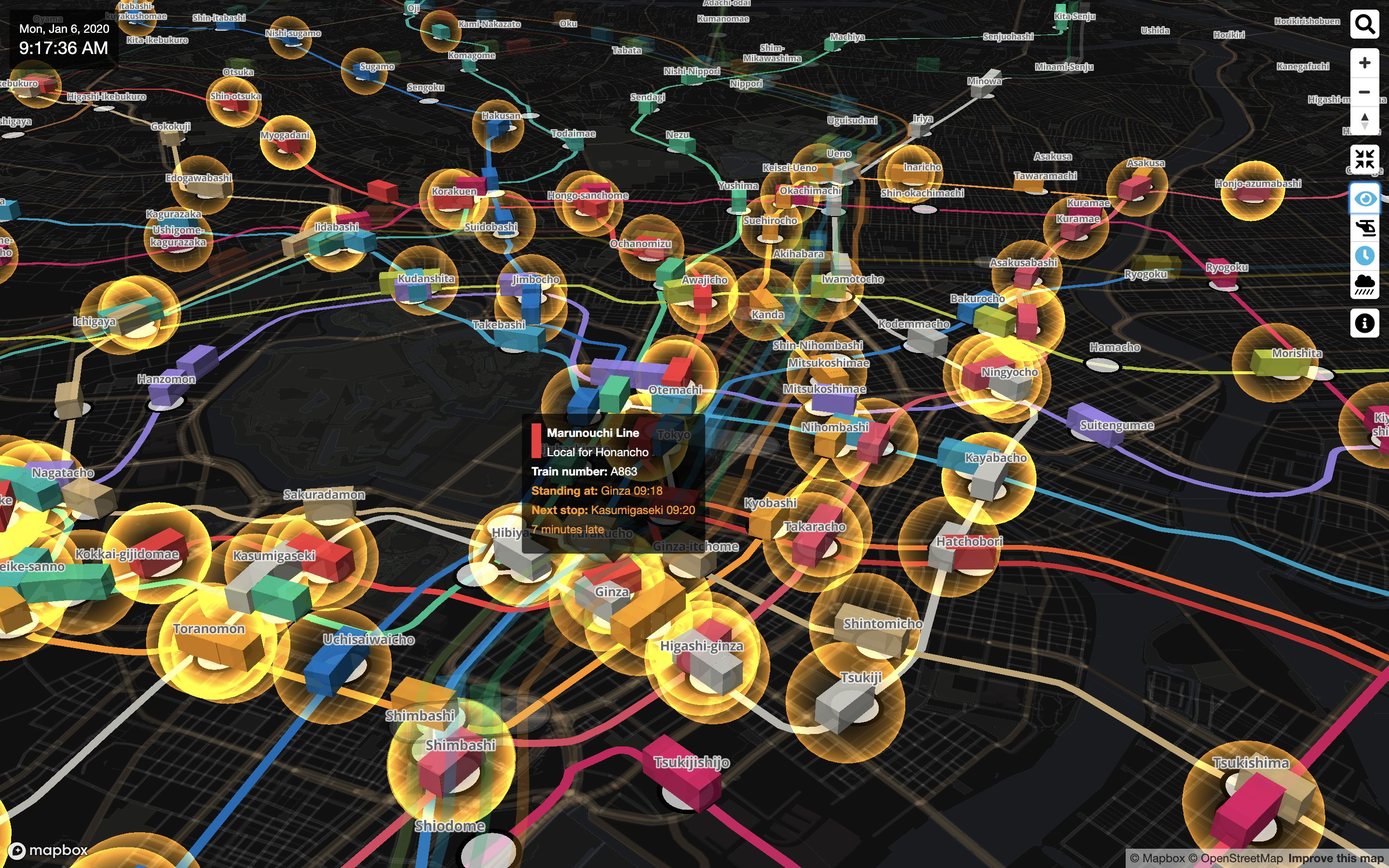
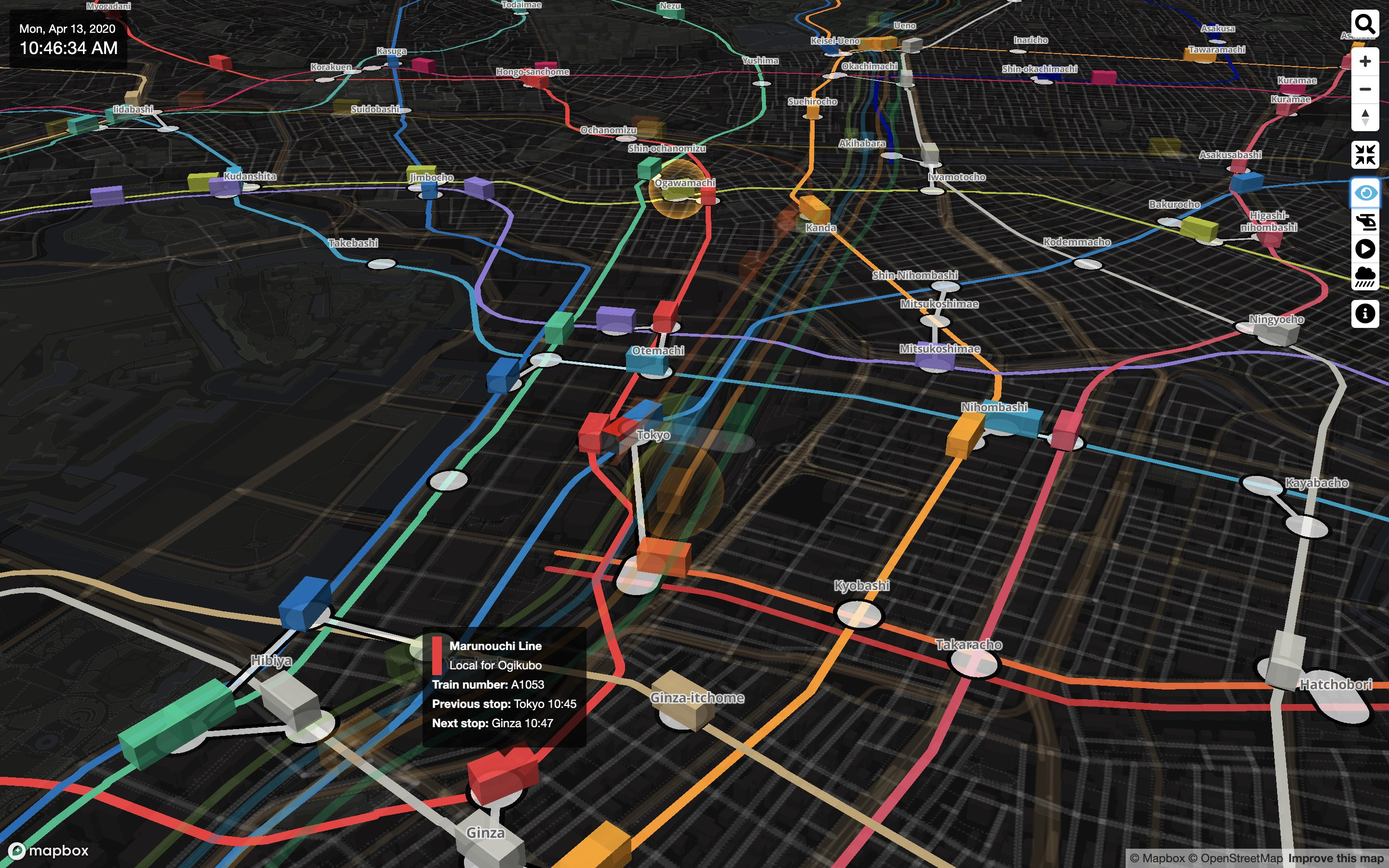
Update USER_GUIDE and screenshot images

diff --git a/USER_GUIDE-en.md b/USER_GUIDE-en.md
@@ -12,7 +12,7 @@ Users can freely move around on the 3D map and zoom in on the places they want t
 
 Mini Tokyo 3D is a web application that you can run in any web browser, regardless of device, such as PCs, smartphones, tablets, and set-top boxes. Please use the following URL to access.
 
-[https://nagix.github.io/mini-tokyo-3d/](https://nagix.github.io/mini-tokyo-3d/)
+[https://minitokyo3d.com](https://minitokyo3d.com)
 
 The features of Mini Tokyo 3D are as follows.
 
@@ -32,13 +32,13 @@ Mini Tokyo 3D is using the same line colors used in official route maps and guid
 
 <img src="images/performance.jpg" width="537">
 
-Over 1,100 trains run at the same time during the rush hour, but with the optimized data structure and processing logic, a very smooth operation animation is realized even on smartphones. Smooth animation of 60 frames per second is used everywhere, including viewpoint movement, switching between overground and underground views, and fading in and out of trains and airplanes.
+Over 1,200 trains run at the same time during the rush hour, but with the optimized data structure and processing logic, a very smooth operation animation is realized even on smartphones. Smooth animation of 60 frames per second is used everywhere, including viewpoint movement, switching between overground and underground views, and fading in and out of trains and airplanes.
 
 ### Support for 4 Languages
 
 <img src="images/multilanguage.jpg" width="219">
 
-In addition to Japanese, Mini Tokyo 3D supports English, Chinese and Korean, which are popular with tourists visiting Japan. Not only the user interface texts but also railway names, station names, train types, airport names and airline names are also multilingualized. For the user interface texts, Thai and Nepali are also supported.
+In addition to Japanese, Mini Tokyo 3D supports English, Chinese (Simplified and Traditional) and Korean, which are popular with tourists visiting Japan. Not only the user interface texts but also railway names, station names, train types, airport names and airline names are also multilingualized. For the user interface texts, Thai and Nepali are also supported.
 
 ### Train Operation and Display as Close as Possible to Reality
 
@@ -92,27 +92,29 @@ Click or tap the compass icon button and the bearing will be reset to true north
 
 ### Tracking Trains and Airplanes
 
-Clicking or tapping on a train or airplane will turn on [Tracking Mode](#tracking-mode) and the screen will automatically move following the movement of the train or airplane. There are two types of tracking modes, the “Helicopter Tracking Mode” and the “Rear Tracking Mode”, and you can enjoy the scenery along the railway in your favorite tracking mode. When the tracking mode is on, the map panning and rotating operations are disabled (you can zoom in/out and change the tilt). Clicking on a map with no trains or airplanes turns the tracking mode off.
+Clicking or tapping on a train or airplane will turn on [Tracking Mode](#tracking-mode) and the screen will automatically move following the movement of the train or airplane. There are two types of Tracking Modes, the “Helicopter Tracking Mode” and the “Rear Tracking Mode”, and you can enjoy the scenery along the railway in your favorite Tracking Mode. When Tracking Mode is on, the map panning and rotating operations are disabled (you can zoom in/out and change the tilt). Clicking on a map with no trains or airplanes turns Tracking Mode off.
 
-See [here](#tracking-mode) for details on tracking modes.
+See [here](#tracking-mode) for details on Tracking Modes.
 
 ### Date and Time
 
 <img src="images/clock.jpg" width="141">
 
-When [Real-Time Mode](#real-time-mode) is on, the current data and time is displayed at the top left of the screen. It is convenient when accessing from overseas because Japan standard time is always displayed.
+The current data and time is displayed at the top left of the screen. It is convenient when accessing from overseas because Japan standard time is always displayed. When [Playback Mode](#playback-mode) is on, additional buttons appear below the the current time to change the time and the speed at which the time progresses.
+
+See [here](#playback-mode) for details on Playback Mode.
 
 ### Delayed Train
 
 <img src="images/delay-marker.jpg" width="185">
 
-When [Real-Time Mode](#real-time-mode) is on, orange spheres are displayed around trains that are delayed for more than 1 minute. It is easy to see which sections on the map have the delay.
+When [Playback Mode](#playback-mode) is off, orange spheres are displayed around trains that are delayed for more than 1 minute. It is easy to see which sections on the map have the delay.
 
 ### Displaying Detailed Information on Trains and Airplanes
 
 <img src="images/train-details.jpg" width="216"> <img src="images/flight-details.jpg" width="216">
 
-When [Real-Time Mode](#real-time-mode) is on, place the mouse pointer or tap on the train or airplane to display detailed information about the train or airplane. Detailed train information includes railway name, train type, destination, train number, previous or standing station and departure time, next station and arrival time, delay time, and operation information. Flight details include airline name, flight number, departure or arrival location, status, departure or arrival time, and code-share information. If there is a train delay or a flight schedule change, the change will be highlighted in orange.
+Place the mouse pointer or tap on the train or airplane to display detailed information about the train or airplane. Detailed train information includes railway name, train type, destination, train number, previous or standing station and departure time, next station and arrival time, delay time, and operation information. Flight details include airline name, flight number, departure or arrival location, status, departure or arrival time, and code-share information. If there is a train delay or a flight schedule change, the change will be highlighted in orange.
 
 ### Station Search
 
@@ -126,45 +128,49 @@ When you click or tap the search icon button, a search window appears and you ca
 
 Click or tap the information icon button to show application and data information. The last update time of static data and dynamic data is also displayed.
 
-## Display modes
+## Display Modes
 
 ### Full Screen Mode
 
 <img src="images/fullscreen-icon.jpg" width="50">
 
-Click or tap the screen zoom icon to toggle full screen mode on or off.
+Click or tap the screen zoom icon to toggle Full Screen Mode on or off.
 
-When full-screen mode is on, you can cancel full-screen mode by pressing Esc key instead of clicking / tapping the button.
+When Full Screen Mode is on, you can cancel Full Screen Mode by pressing Esc key instead of clicking / tapping the button.
 
 ### Underground Mode
 
 <img src="images/underground.jpg" width="662"> <img src="images/eye-icon.jpg" width="50" align="top">
 
-Click or tap the eye icon button to turn the underground mode on or off (the icon is in light blue when it is on).
+Click or tap the eye icon button to turn Underground Mode on or off (the icon is in light blue when it is on).
 
-When underground mode is on, the map will turn dark and the overground railways, stations, trains and airplanes will be translucent, while the underground railways, stations and trains will appear brighter.
+When Underground Mode is on, the map will turn dark and overground railways, stations, trains and airplanes will be translucent, while underground railways, stations and trains will appear brighter.
 
-When underground mode is off, the map will return to normal, overground railways, stations, trains and airplanes will be displayed brightly, and underground railways, stations and trains will be translucent.
+When Underground Mode is off, the map will return to normal, overground railways, stations, trains and airplanes will be displayed brightly, and underground railways, stations and trains will be translucent.
 
-You can also switch modes by clicking or tapping underground trains with underground mode off, or clicking or tapping overground trains with underground mode on. In addition, the mode is automatically switched when the train being tracked enters the underground from the ground or exits from the underground to the ground.
+You can also switch modes by clicking or tapping underground trains with Underground Mode off, or clicking or tapping overground trains with Underground Mode on. In addition, the mode is automatically switched when the train being tracked enters the underground from the ground or exits from the underground to the ground.
 
 ### Tracking Mode
 
-<img src="images/helicopter-tracking.jpg" width="244"> <img src="images/helicopter-icon.jpg" width="50" align="top"> <img src="images/rear-tracking.jpg" width="244"> <img src="images/train-icon.jpg" width="50" align="top">
+<img src="images/helicopter-tracking.jpg" width="400"> <img src="images/helicopter-icon.jpg" width="50" align="top"> <img src="images/rear-tracking.jpg" width="400"> <img src="images/train-icon.jpg" width="50" align="top">
 
-Click or tap on a train or airplane to turn tracking mode on and the screen will automatically follow the movement of the train or airplane (the icon will appear in light blue when it is on). Clicking on a map with no trains or airplanes turns tracking mode off.
+Click or tap on a train or airplane to turn Tracking Mode on and the screen will automatically follow the movement of the train or airplane (the icon will appear in light blue when it is on). Clicking on a map with no trains or airplanes turns Tracking Mode off.
 
 The helicopter icon indicates the “Helicopter Tracking Mode”, and it makes a 360 degree turn around the target train or airplane. The train icon indicates the “Rear Tracking Mode”, and it tracks the direction of travel from diagonally behind the target train or airplane. Click or tap the icon button to toggle between the “Helicopter Tracking Mode” and the “Rear Tracking Mode”.
 
-### Real-Time Mode
+### Playback Mode
 
-<img src="images/clock-icon.jpg" width="50">
+<img src="images/playback-icon.jpg" width="50">
 
-Click or tap the clock icon button to switch the real-time mode on or off (the icon is in light blue when it is on).
+Click or tap the playback icon button to switch Playback Mode on or off (the icon is in light blue when it is on).
 
-When real-time mode is on, trains and airplanes are displayed on the map according to the actual operation at the current time. Because it uses real-time information, the location on the map will change accordingly if there is a train delay or flight schedule change.
+When Playback Mode is on, you can change the date and time and the speed at which time progresses, so you can check the operation of a train on a specific date and time, or enjoy the train operation throughout the entire day as if you were watching model trains in motion. In this state, trains will run according to the timetables and no real-time information will be reflected.
 
-When the real-time mode is off, you can enjoy the operation of the trains going back and forth on each route as if you were watching the movement of the model trains.
+When Playback Mode is off, trains and airplanes are displayed on the map according to the actual operation at the current time. Because it uses real-time information, the location on the map will change accordingly if there is a train delay or flight schedule change.
+
+When Playback Mode is turned on, the “Edit date & time” button and the “+” and “-” buttons to change the playback speed appear just below the time display. If you click or tap the “Edit date & time” button, you will enter the date/time editing mode. The “+” and “-” buttons appear above and below the year, month, day, hour, minute, and second numbers. Use these buttons to change the date and time, and click or tap the "OK" button to confirm the change. Clicking or tapping the "Cancel" button will cancel the change and return to the original setting time. You can also change the playback speed by clicking or tapping the “+” and “-” buttons on the left and right of the number that indicates the speed. It can be set to between 1x (the same speed as real time) and 600x, in increments of 1 from 1x to 10x, 10 from 10x to 100x, and 100 from 100x to 600x.
+
+<img src="images/clock-playback.jpg" width="141"> <img src="images/clock-edit.jpg" width="292" align="top">
 
 ### Precipitation Display
 
@@ -182,6 +188,7 @@ This application uses the following data.
 - [Mapbox](https://www.mapbox.com)
 - [OpenStreetMap](https://www.openstreetmap.org)
 - [Japan Meteorological Agency Precipitation Nowcast](https://www.jma.go.jp/en/radnowc/)
+- [Haneda Airport Flight Course](https://www.ntrack.mlit.go.jp)
 
 The source of the public transportation data in this application is the Open Data Challenge for Public Transportation in Tokyo. They are based on the data provided by the public transportation operators. The accuracy and integrity of the data are not guaranteed. Please do not contact the public transportation operators directly regarding the content of this application.
 
@@ -189,8 +196,8 @@ The source of the public transportation data in this application is the Open Dat
 
 This application has been tested with the following browsers. Chrome is recommended. Internet Explorer is not supported.
 
-- Chrome 79 (Mac OS, Windows)
-- FireFox 71 (Mac OS, Windows, iOS)
+- Chrome 81 (Mac OS, Windows, iOS)
+- FireFox 75 (Mac OS, Windows, iOS)
 - Safari 13 (Mac OS, iOS)
 - Edge 44 (Windows)
 
